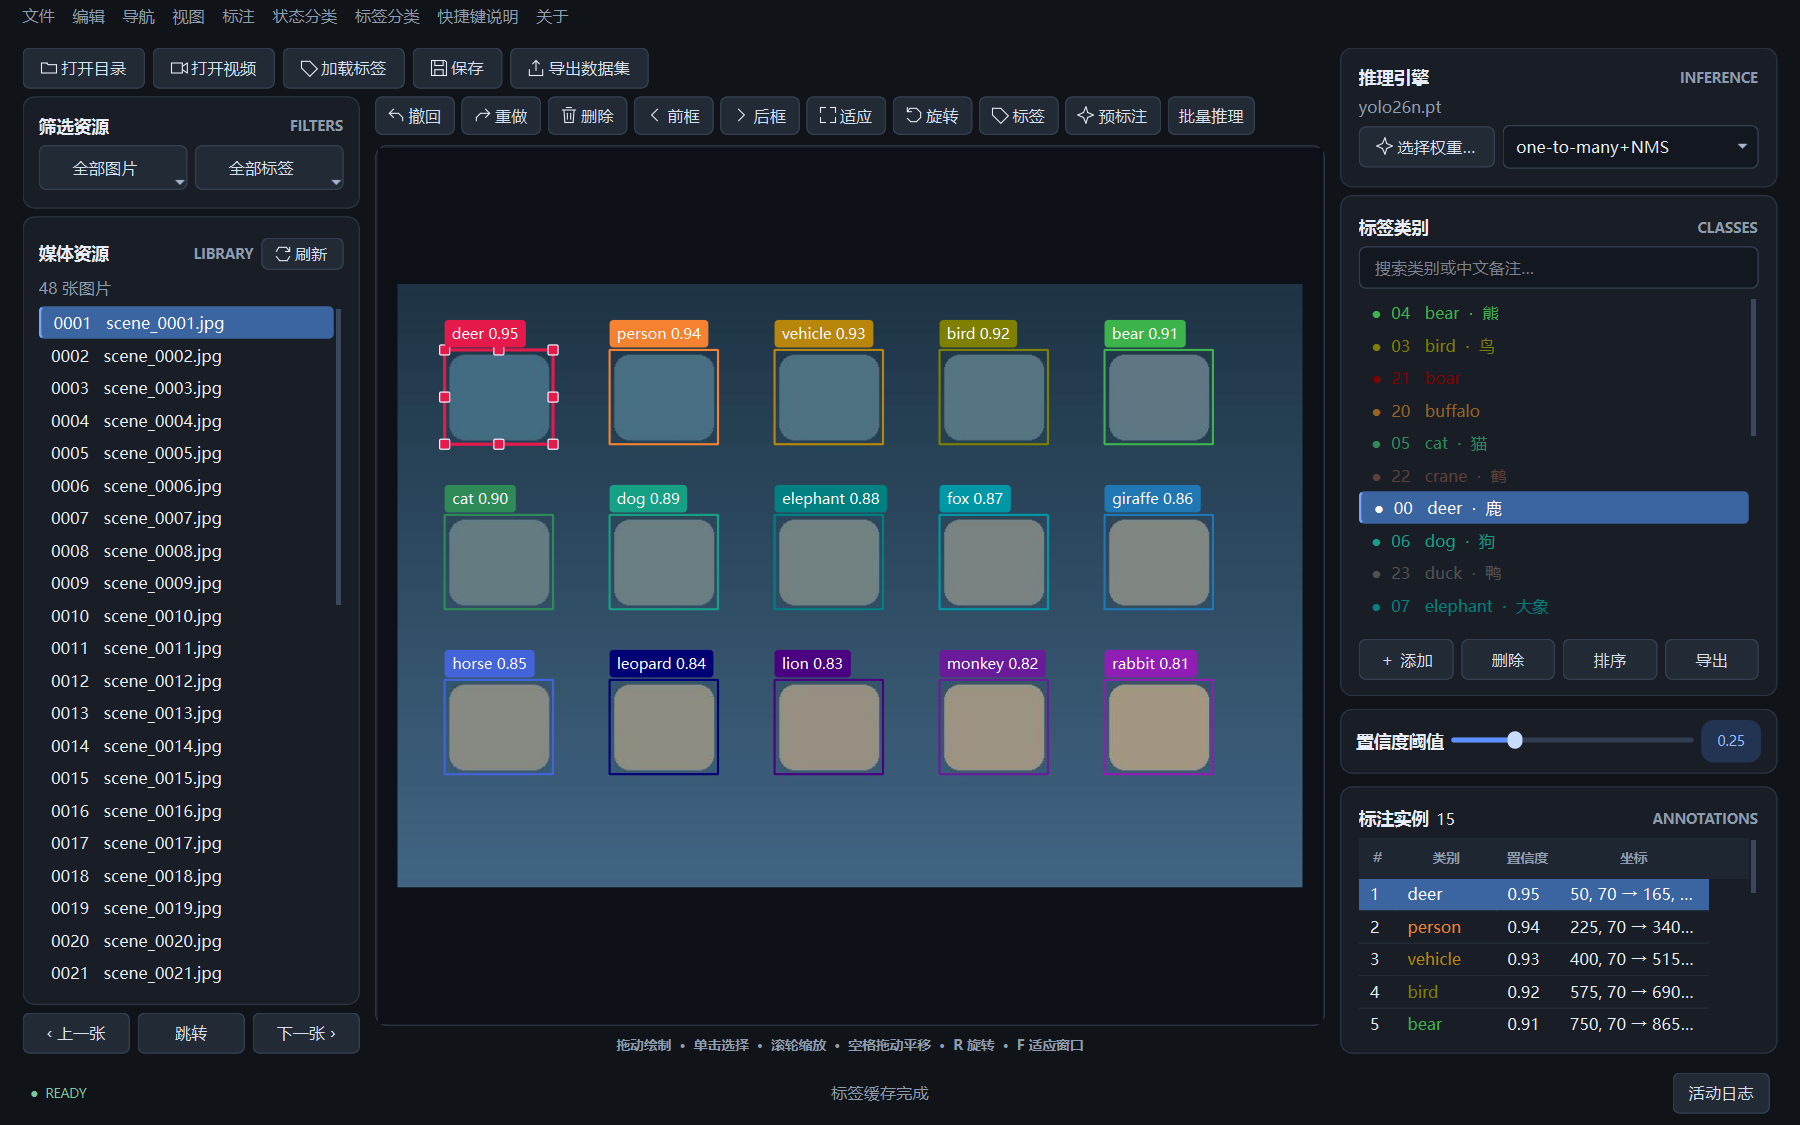
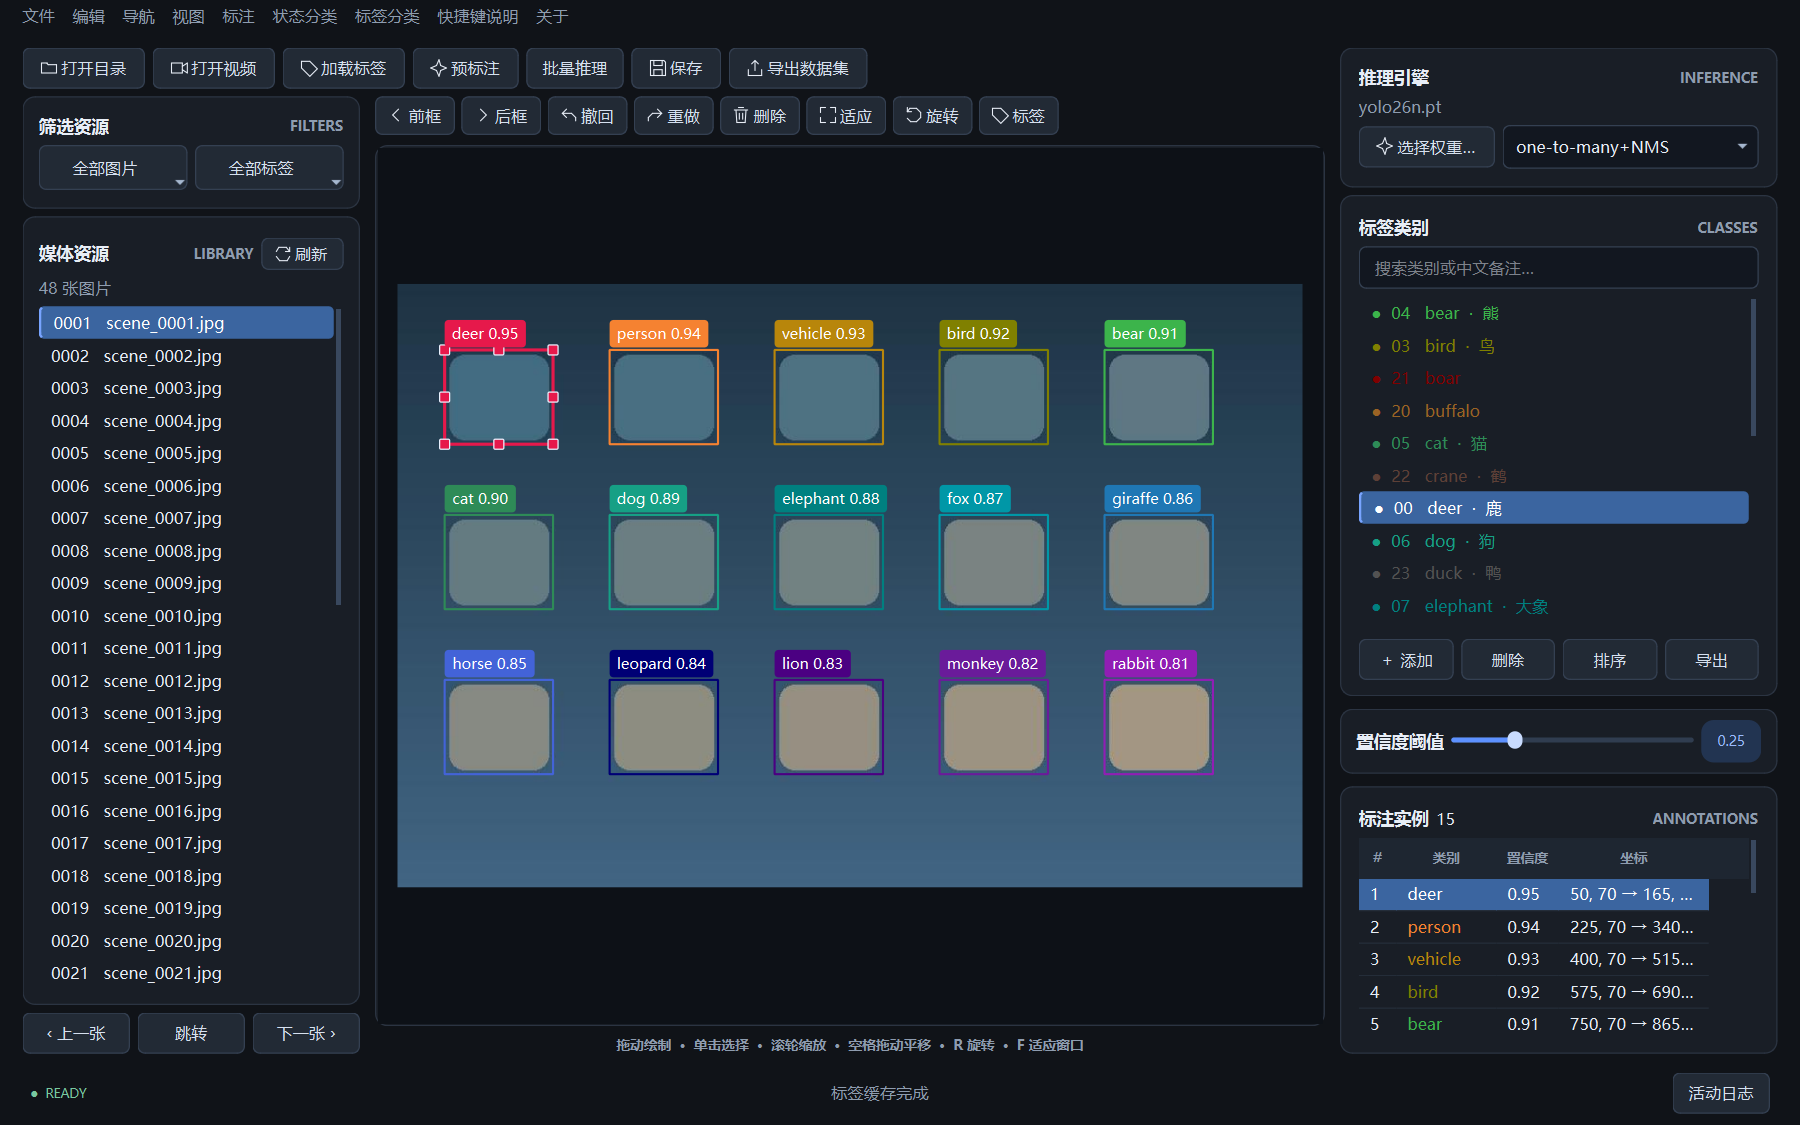
feat(ui): 调整推理与前后框按钮位置

Changed region(s): [[0.2489, 0.0311, 0.4978, 0.1244], [0.5911, 0.0622, 0.7156, 0.1244], [0.2178, 0.0933, 0.2489, 0.1244]]

diff --git a/ui/qt/app.py b/ui/qt/app.py
@@ -108,11 +108,11 @@ class CommandBar(QFrame):
         self.setSizePolicy(QSizePolicy.Policy.Expanding, QSizePolicy.Policy.Preferred)
         layout = FlowLayout(self)
         for text, graphic, tooltip, action in [
+            ('前框', 'prev', '选择前一个标注框（Q）', app._prev_bbox),
+            ('后框', 'next', '选择后一个标注框（E）', app._next_bbox),
             ('撤回', 'undo', '撤回（Ctrl+Z）', app._undo),
             ('重做', 'redo', '重做（Ctrl+Y）', app._redo),
             ('删除', 'trash', '删除选中标注（Delete）', app._delete_selected),
-            ('前框', 'prev', '选择前一个标注框（Q）', app._prev_bbox),
-            ('后框', 'next', '选择后一个标注框（E）', app._next_bbox),
             ('适应', 'fit', '适应窗口（F）', app._fit_window),
             ('旋转', 'rotate', '旋转 180°（R）', app._rotate_current_image),
             ('标签', 'label', '切换标签显示（T）', app._cycle_label_mode),
@@ -126,11 +126,9 @@ class CommandBar(QFrame):
         set_button_icon(self.infer, 'spark')
         self.infer.setToolTip('推理当前图片或完整视频（Ctrl+X）')
         self.infer.clicked.connect(app._pre_annotate_current)
-        layout.addWidget(self.infer)
         self.batch = QPushButton('批量推理')
         self.batch.setToolTip('批量推理当前筛选中的图片（Ctrl+Shift+X）')
         self.batch.clicked.connect(lambda: app._stop_batch_pre_annotate() if self._batch_running else app._batch_pre_annotate())
-        layout.addWidget(self.batch)
 
     def set_batch_running(self, running):
         self._batch_running = running
@@ -253,6 +251,9 @@ class AnnotationApp(QMainWindow, ApplicationController):
         center_layout.setContentsMargins(0, 0, 0, 0)
         center_layout.setSpacing(8)
         self._toolbar = CommandBar(self)
+        # 推理操作紧随标签导入，编辑栏集中保留画布和标注框操作。
+        header.insertWidget(3, self._toolbar.infer)
+        header.insertWidget(4, self._toolbar.batch)
         center_layout.addWidget(self._toolbar)
         canvas_frame = QFrame()
         canvas_frame.setObjectName('panel')

diff --git a/docs/modern-ui.md b/docs/modern-ui.md
@@ -29,7 +29,7 @@ python main.py
 
 “视图”菜单可即时切换深色 / 浅色主题并保存偏好。两类筛选菜单横向并列且带下拉提示，权重选择与推理分支也横向并列，置信度阈值改为单行，将纵向空间留给类别列表。状态文字居中，图标按钮具有悬停说明。图片列表支持 Ctrl 加选 / 取消、Shift 连选；资源标题旁的“刷新”按钮及 F5 会重新扫描目录并保留当前类别和筛选条件。选择类对话框默认宽度由 520 调整为 350 逻辑像素；快捷键等长篇说明保留较宽阅读区域。
 
-工作区顶部直接排列打开目录 / 视频、加载标签、保存及导出；右侧推理、类别、阈值及实例栏从同一顶部起排。图片、类别和实例行高均为 26 逻辑像素，刷新按钮为 66 × 26，阈值标题加粗。编辑操作为图标加文字，增加前框 / 后框（Q / E），窄窗口自动换行。预标注和保存使用普通按钮样式；所有带快捷键的按钮在悬停提示中显示快捷键，预标注文字仅显示功能名。深浅主题的列表、菜单及选中按钮统一采用适中的蓝底白字，保证选中状态可读。
+工作区顶部依次排列打开目录 / 视频、加载标签、预标注、批量推理、保存及导出；右侧推理、类别、阈值及实例栏从同一顶部起排。图片、类别和实例行高均为 26 逻辑像素，刷新按钮为 66 × 26，阈值标题加粗。编辑操作为图标加文字，前框 / 后框（Q / E）排在最前面，窄窗口自动换行。预标注和保存使用普通按钮样式；所有带快捷键的按钮在悬停提示中显示快捷键，预标注文字仅显示功能名。深浅主题的列表、菜单及选中按钮统一采用适中的蓝底白字，保证选中状态可读。
 
 ![浅色主题](modern-ui-light.png)
 
